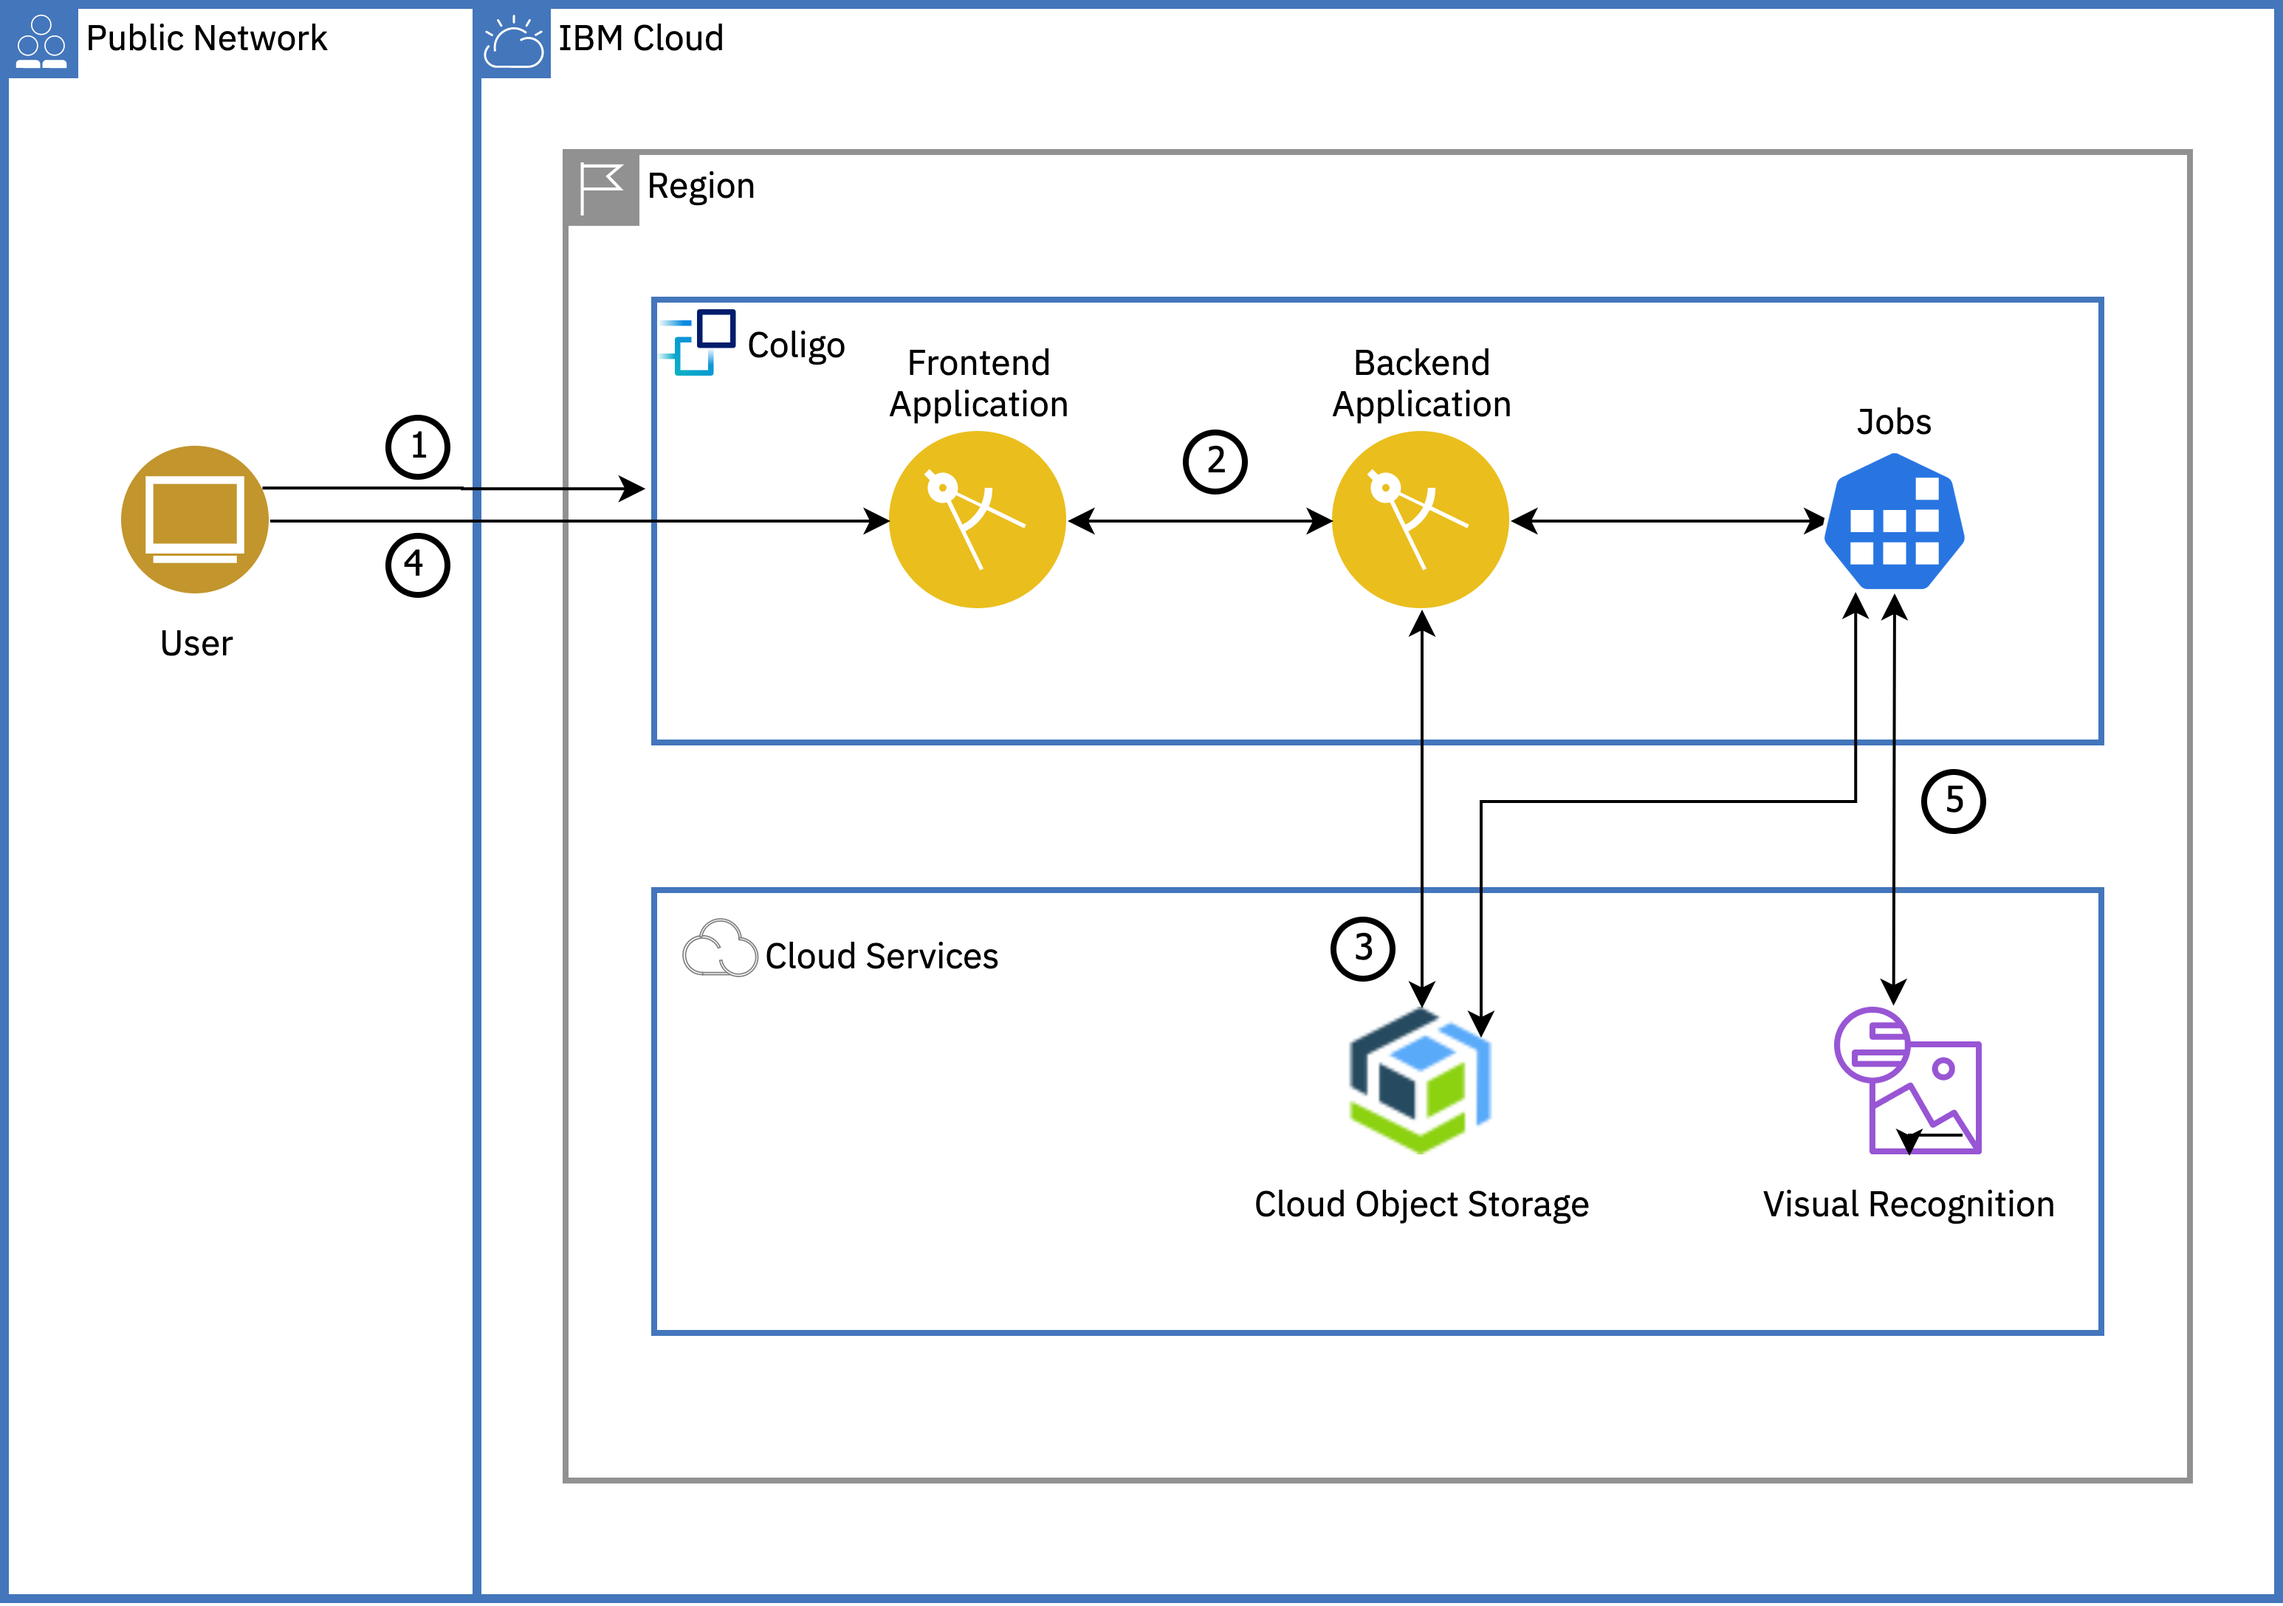
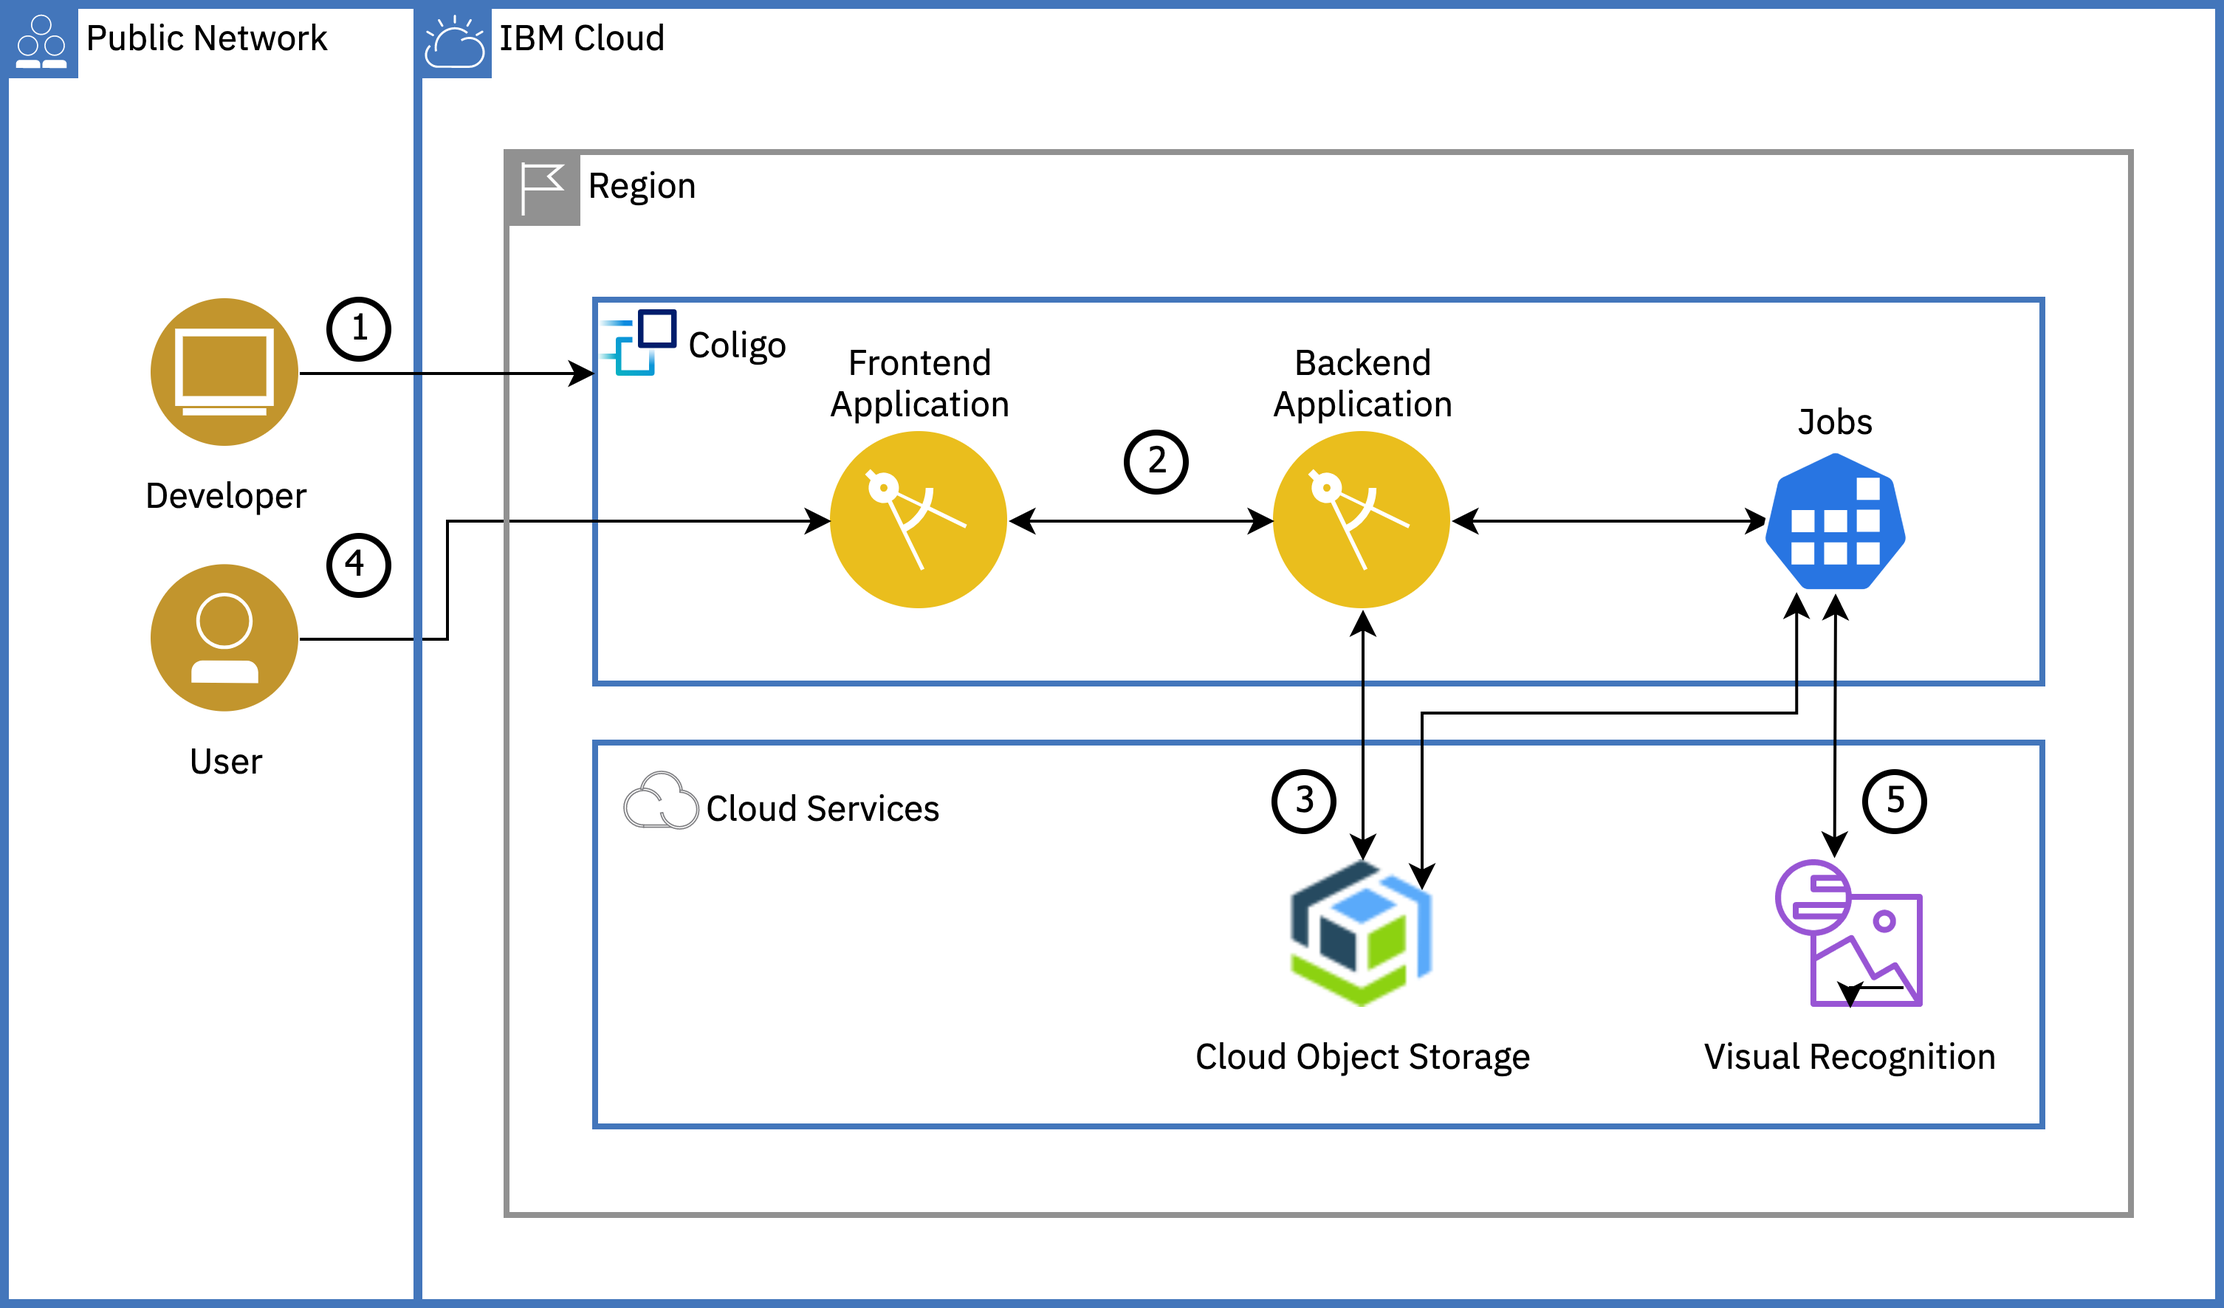
Updated Coligo tutorial based on review comments

Changed region(s): [[0.0, 0.0, 1.0, 1.0], [0.0, 0.0, 0.156, 0.0621]]

diff --git a/coligo.hidden.md b/coligo.hidden.md
@@ -2,7 +2,7 @@
 subcollection: solution-tutorials
 copyright:
   years: 2020
-lastupdated: "2020-06-02"
+lastupdated: "2020-06-03"
 lasttested: "2020-05-26"
 
 ---
@@ -25,7 +25,7 @@ lasttested: "2020-05-26"
 
 > :warning: WORK-IN-PROGRESS
 
-In this tutorial, you will be learn about Coligo by deploying an image classification application. The application is made up of a frontend and a backend component. The frontend component is a web application that users will use to upload images. This web application will send the uploaded images to the backend component for processing. The backend will store the images into an {{site.data.keyword.cos_short}} "bucket" and then initiate a "batch" job to process all of the images uploaded to the bucket - one job task per image. A batch job is a collection of tasks where each task performs exactly one action and then exits. This processing will involve passing the image to the {{site.data.keyword.visualrecognitionshort}} service to determine what is in the image. The result from the {{site.data.keyword.visualrecognitionshort}} service will be stored into another folder in the same bucket. And finally, the results of those scans will then be visible on the web application.
+In this tutorial, you will learn about Coligo by deploying an image classification application. The application is made up of a frontend and a backend component. The frontend component is a web application that users will use to upload images. This web application will send the uploaded images to the backend component for processing. The backend will store the images into an {{site.data.keyword.cos_short}} "bucket" and then initiate a "batch" job to process all of the images uploaded to the bucket - one job task per image. A batch job is a collection of tasks where each task performs exactly one action and then exits. This processing will involve passing the image to the {{site.data.keyword.visualrecognitionshort}} service to determine what is in the image. The result from the {{site.data.keyword.visualrecognitionshort}} service will be stored into another folder in the same bucket. And finally, the results of those scans will then be visible on the web application.
 {:shortdesc}
 
 Coligo aims to create a platform to unify the deployment of functions, applications, batch jobs (run-to-completion workloads), and pre-built containers to Kubernetes-based infrastructure. It provides a "one-stop-shop" experience for developers, enabling higher productivity and faster time to market. It is delivered as a managed service on the cloud and built on open-source projects (Kubernetes, Istio, Knative, Tekton, etc.).
@@ -62,9 +62,9 @@ This tutorial may incur costs. Use the [Pricing Calculator](https://{DomainName}
   ![Architecture](images/solution54-coligo-hidden/architecture_diagram.png)
 </p>
 
-1. User creates a Coligo project and deploys a frontend and a backend Coligo application.
-2. User connects the frontend(UI) app to the backend by modifying the frontend application to set an environment variable value to point to the backend application's endpoint.
-3. User provisions the required cloud services and binds them to the backend application and jobs by creating secrets and configmap.
+1. Developer creates a Coligo project and deploys a frontend and a backend Coligo application.
+2. Developer connects the frontend(UI) app to the backend by modifying the frontend application to set an environment variable value to point to the backend application's endpoint.
+3. Developer provisions the required cloud services and binds them to the backend application and jobs by creating secrets and configmap.
 4. User uploads an image(s) via the frontend app that is stored in {{site.data.keyword.cos_short}}.
 5. User clicks Classify on the UI that runs a Coligo job via the backend to classify the image by pushing the image to {{site.data.keyword.visualrecognitionshort}}. The result is then saved to {{site.data.keyword.cos_short}} and displayed in the frontend app.
 
@@ -73,7 +73,7 @@ This tutorial may incur costs. Use the [Pricing Calculator](https://{DomainName}
 
 This tutorial requires:
 * {{site.data.keyword.cloud_notm}} CLI,
-   * Coligo plugin (`coligo/cli`),
+   * Coligo plugin (`coligo`),
 * `kubectl` to interact with Kubernetes clusters,
 
 <!--##istutorial#-->
@@ -235,8 +235,8 @@ Now, you will need to pass in the credentials for the services you just created 
    ```
    {:pre}
 
-## Testing the entire application
-{:testing_app}
+## Test the entire application
+{:test_app}
 
 Now that you have the backend application connected to the frontend application, let's test it by uploading images for image classification,
 
